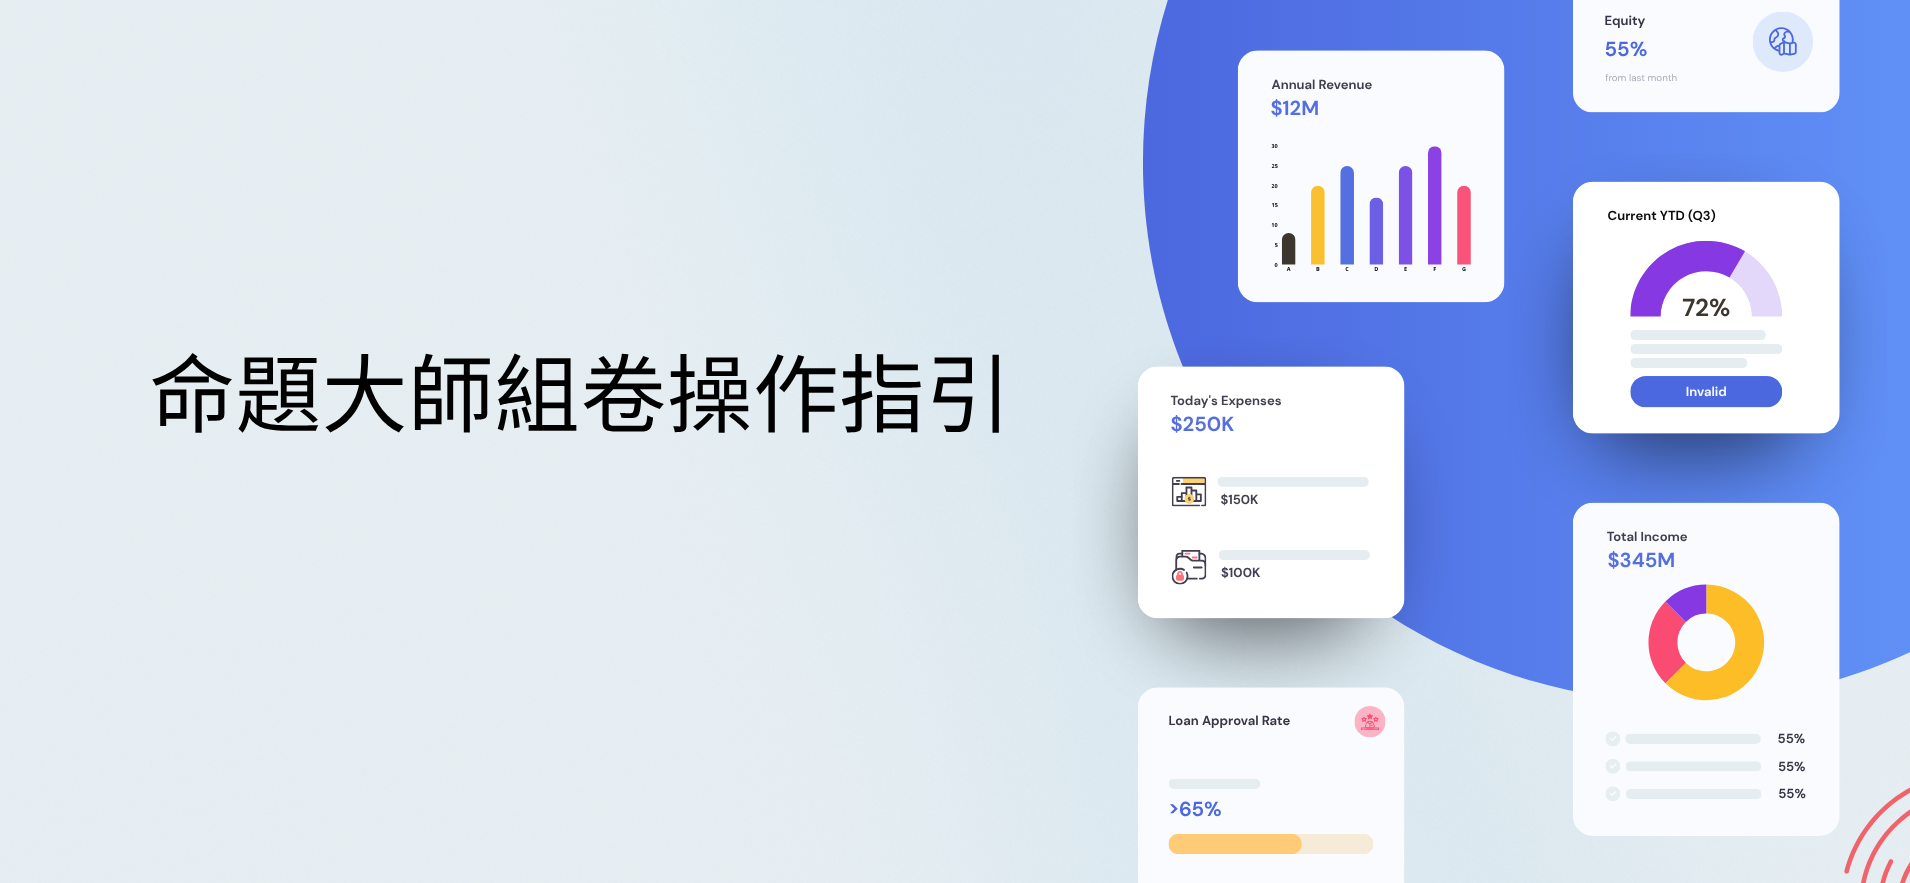
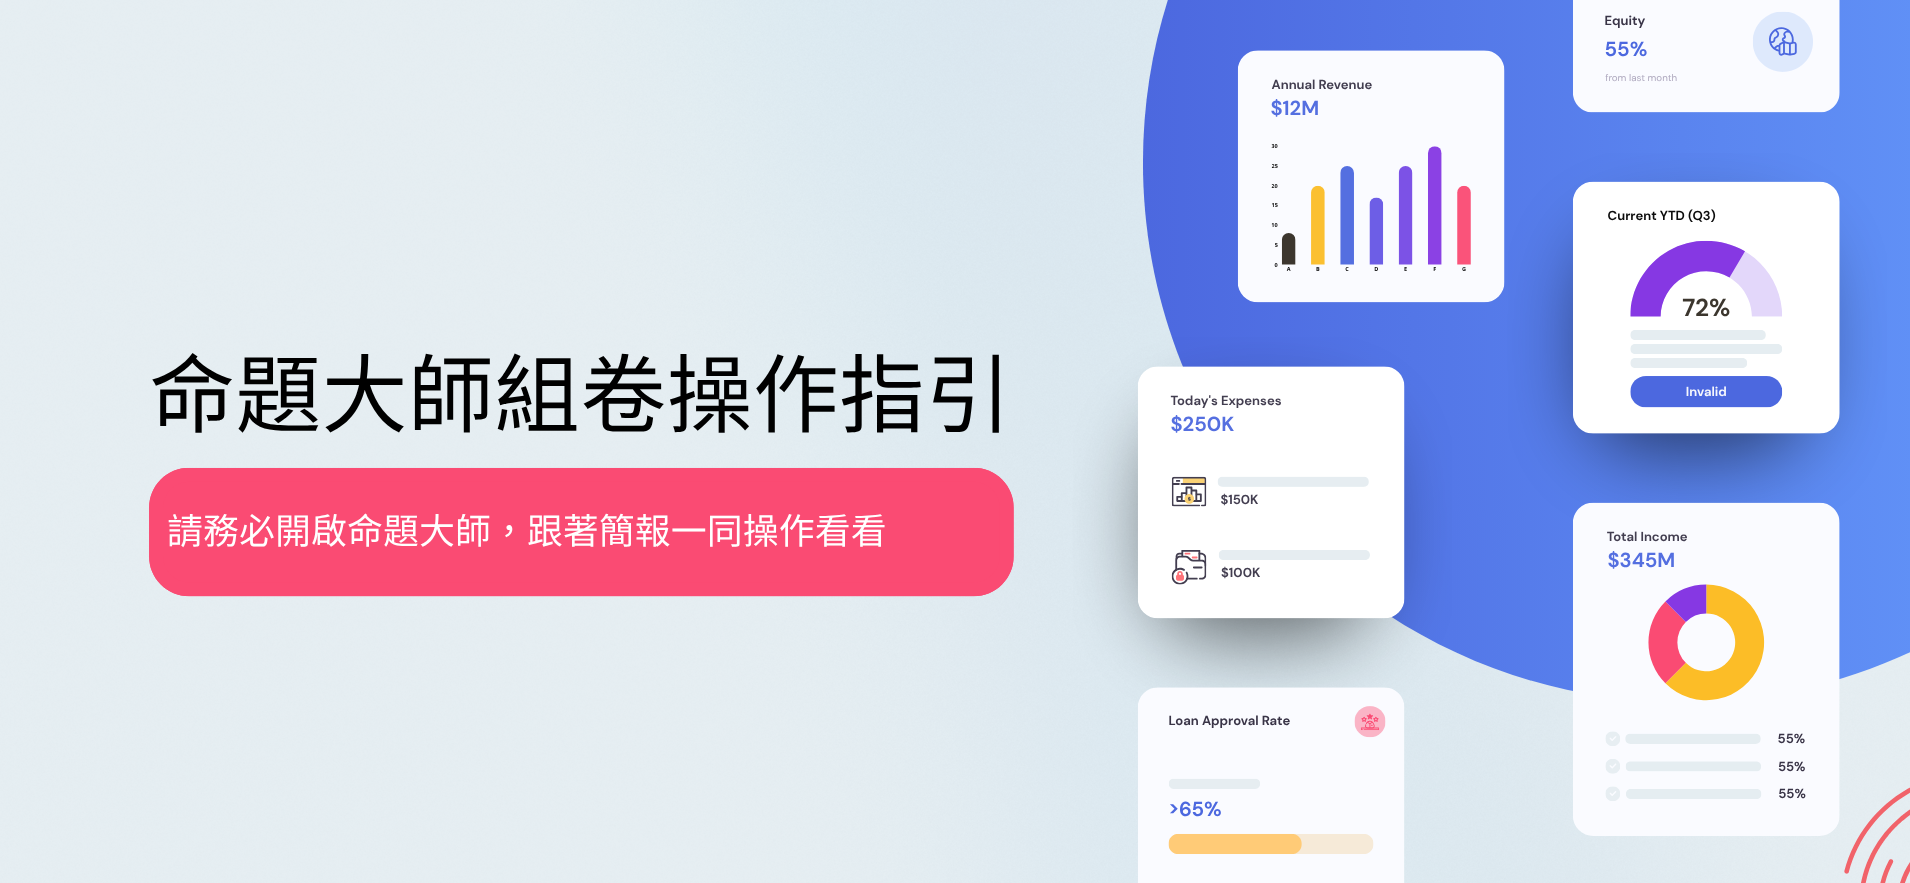
3張操作引導圖更新；命題大師改句+換順序；4個簡介加「如何進入/取得」頁

Changed region(s): [[0.0618, 0.5198, 0.556, 0.7033]]

diff --git a/js/courses.js b/js/courses.js
@@ -49,6 +49,21 @@ const COURSES = [
             '</div>' +
           '</div>',
 
+          '<h2 class="intro-title">如何進入？</h2>' +
+          '<p class="intro-lead">兩種方式都能登入會員中心：</p>' +
+          '<div class="intro-cards">' +
+            '<div class="intro-card">' +
+              '<div class="intro-ico">🔎</div>' +
+              '<h3>方式一：網站右上角</h3>' +
+              '<p>在各種需要登入的翰林網站，<b>右上角</b>就能看到「登入」按鈕。</p>' +
+            '</div>' +
+            '<div class="intro-card">' +
+              '<div class="intro-ico">↪️</div>' +
+              '<h3>方式二：進入產品時</h3>' +
+              '<p>在<b>未登入</b>的狀態下進入產品，系統會自動導向登入畫面。</p>' +
+            '</div>' +
+          '</div>',
+
           '<h2 class="intro-title">這堂課，你將學到：</h2>' +
           '<ul class="intro-list">' +
             '<li>登入方式基本分為<b>哪幾種</b></li>' +
@@ -119,6 +134,15 @@ const COURSES = [
               '<h3>內含電子書書櫃</h3>' +
               '<p>不管學校教室是用觸屏，還是老師自己用筆電、平板投播，都能透過行動大師取得及開啟電子書。</p>' +
             '</div>' +
+          '</div>',
+
+          '<h2 class="intro-title">如何進入？</h2>' +
+          '<p class="intro-lead">兩種方式都能打開行動大師：</p>' +
+          '<div class="howto">' +
+            '<div class="howto-row"><span class="howto-tag">🔎 搜尋</span>' +
+              '<span class="howto-val">翰林行動大師</span></div>' +
+            '<div class="howto-row"><span class="howto-tag">🔗 網址</span>' +
+              '<a href="https://edisc3.hle.com.tw" target="_blank" rel="noopener">https://edisc3.hle.com.tw</a></div>' +
           '</div>',
 
           '<h2 class="intro-title">這堂課，你將學到：</h2>' +
@@ -196,6 +220,24 @@ const COURSES = [
               '<div class="intro-ico">🧰</div>' +
               '<h3>它不只是一本 PDF</h3>' +
               '<p><mark class="hl">而是結合教學工具、互動功能與各種資源的完整學習環境。</mark></p>' +
+            '</div>' +
+          '</div>',
+
+          '<h2 class="intro-title">如何取得電子書？</h2>' +
+          '<div class="howto">' +
+            '<div class="howto-row"><span class="howto-tag">🔎 搜尋</span>' +
+              '<span class="howto-val">翰林行動大師</span></div>' +
+          '</div>' +
+          '<div class="intro-cards">' +
+            '<div class="intro-card">' +
+              '<div class="intro-ico">☁️</div>' +
+              '<h3>線上版</h3>' +
+              '<p>直接使用<b>線上版行動大師</b>下載，或直接使用<b>線上版電子書</b>。</p>' +
+            '</div>' +
+            '<div class="intro-card">' +
+              '<div class="intro-ico">💻</div>' +
+              '<h3>電腦版</h3>' +
+              '<p>安裝<b>電腦版行動大師</b>，下載<b>電腦版電子書</b>。</p>' +
             '</div>' +
           '</div>',
 
@@ -297,10 +339,23 @@ const COURSES = [
             '</div>' +
           '</div>',
 
+          '<h2 class="intro-title">如何進入？</h2>' +
+          '<div class="howto">' +
+            '<div class="howto-row"><span class="howto-tag">🔎 搜尋</span>' +
+              '<span class="howto-val">翰林命題大師</span></div>' +
+            '<div class="howto-row"><span class="howto-tag">🔗 網址</span>' +
+              '<a href="https://testbank.hle.com.tw" target="_blank" rel="noopener">https://testbank.hle.com.tw</a></div>' +
+          '</div>' +
+          '<div class="intro-card">' +
+            '<div class="intro-ico">🔗</div>' +
+            '<h3>也整合在行動大師裡</h3>' +
+            '<p>可於行動大師<b>右側</b>選擇「題庫」，點擊「命題大師」的<b>前往</b>按鈕。</p>' +
+          '</div>',
+
           '<h2 class="intro-title">這堂課，你將學到：</h2>' +
           '<ul class="intro-list">' +
             '<li>命題大師與雲端速測的<b>特色</b></li>' +
-            '<li><b>三種命題方式</b>，適合哪些情境</li>' +
+            '<li>命題大師<b>快速、電腦、手動命題</b>，適合什麼情境</li>' +
             '<li>如何進行<b>挑題（組卷流程）</b></li>' +
             '<li>如何<b>產生雲端速測及進行派發</b></li>' +
           '</ul>'
@@ -316,13 +371,6 @@ const COURSES = [
         pdf: "assets/命題大師/命題大師介紹.pdf"
       },
       {
-        type: "video",
-        title: "介紹影片",
-        desc: "命題大師介紹影片",
-        ai: true,
-        file: "assets/命題大師/命題大師介紹影片.mp4"
-      },
-      {
         type: "slides",
         title: "操作引導",
         desc: "命題大師操作引導手冊",
@@ -330,6 +378,13 @@ const COURSES = [
         slidesDir: "assets/命題大師/slides-guide/",
         slideCount: 26,
         pdf: "assets/命題大師/命題大師操作引導.pdf"
+      },
+      {
+        type: "video",
+        title: "介紹影片",
+        desc: "命題大師介紹影片",
+        ai: true,
+        file: "assets/命題大師/命題大師介紹影片.mp4"
       },
       {
         type: "quiz",

diff --git a/css/style.css b/css/style.css
@@ -289,6 +289,18 @@ a { color: var(--brand); text-decoration: none; }
   font-size: 12px; font-weight: 900; display: grid; place-items: center;
 }
 .intro-list b { color: var(--brand); }
+/* 「如何進入」的搜尋/網址列 */
+.howto { display: flex; flex-direction: column; gap: 10px; max-width: 720px; margin: 0 0 16px; }
+.howto-row {
+  display: flex; align-items: center; gap: 12px; flex-wrap: wrap;
+  background: #f5f7fc; border: 1px solid var(--line); border-radius: 12px; padding: 12px 16px;
+}
+.howto-tag {
+  flex: none; font-size: 13px; font-weight: 800; color: var(--brand);
+  background: #e7ecff; padding: 5px 12px; border-radius: 999px; white-space: nowrap;
+}
+.howto-row .howto-val { font-size: 16px; font-weight: 800; color: var(--ink); }
+.howto-row a { font-size: 16px; font-weight: 800; word-break: break-all; }
 /* 警告款小卡 */
 .intro-card.warn { background: #fff8ec; border-color: #f0dca5; border-top-color: var(--gold); }
 .intro-card.warn h3 { color: #8a6410; }

diff --git a/course.html b/course.html
@@ -5,7 +5,7 @@
   <meta name="viewport" content="width=device-width, initial-scale=1.0" />
   <meta name="robots" content="noindex, nofollow" />
   <title>課程 ・ 翰林國小業務新人教育訓練平台</title>
-  <link rel="stylesheet" href="css/style.css?v=59" />
+  <link rel="stylesheet" href="css/style.css?v=60" />
 </head>
 <body class="course-page">
   <header class="site-header">
@@ -48,9 +48,9 @@
 
   <script src="https://cdn.jsdelivr.net/npm/@supabase/supabase-js@2"></script>
   <script src="js/config.js?v=28"></script>
-  <script src="js/courses.js?v=56"></script>
+  <script src="js/courses.js?v=60"></script>
   <script src="js/progress.js?v=30"></script>
-  <script src="js/course.js?v=59"></script>
+  <script src="js/course.js?v=60"></script>
   <script src="js/auth.js?v=36"></script>
 </body>
 </html>

diff --git a/admin.html b/admin.html
@@ -5,7 +5,7 @@
   <meta name="viewport" content="width=device-width, initial-scale=1.0" />
   <meta name="robots" content="noindex, nofollow" />
   <title>後台 ・ 翰林國小業務新人教育訓練平台</title>
-  <link rel="stylesheet" href="css/style.css?v=59" />
+  <link rel="stylesheet" href="css/style.css?v=60" />
 </head>
 <body>
   <header class="site-header">
@@ -34,7 +34,7 @@
 
   <script src="https://cdn.jsdelivr.net/npm/@supabase/supabase-js@2"></script>
   <script src="js/config.js?v=28"></script>
-  <script src="js/courses.js?v=56"></script>
+  <script src="js/courses.js?v=60"></script>
   <script src="js/progress.js?v=30"></script>
   <script src="js/admin.js?v=40"></script>
   <script src="js/auth.js?v=36"></script>

diff --git a/index.html b/index.html
@@ -5,7 +5,7 @@
   <meta name="viewport" content="width=device-width, initial-scale=1.0" />
   <meta name="robots" content="noindex, nofollow" />
   <title>翰林國小業務新人教育訓練平台</title>
-  <link rel="stylesheet" href="css/style.css?v=59" />
+  <link rel="stylesheet" href="css/style.css?v=60" />
 </head>
 <body>
   <header class="site-header">
@@ -57,7 +57,7 @@
 
   <script src="https://cdn.jsdelivr.net/npm/@supabase/supabase-js@2"></script>
   <script src="js/config.js?v=28"></script>
-  <script src="js/courses.js?v=56"></script>
+  <script src="js/courses.js?v=60"></script>
   <script src="js/progress.js?v=30"></script>
   <script src="js/home.js?v=59"></script>
   <script src="js/auth.js?v=36"></script>

diff --git a/js/course.js b/js/course.js
@@ -22,7 +22,7 @@ function initCourse() {
   var seenLast = false;     // 這一步「曾經翻到過最後一頁」→ 之後翻回去也保持解鎖
   var keyHandler = null;    // 鍵盤翻頁監聽（避免重複疊加）
   var confettiShown = false;// 彩帶只放一次
-  var SLIDE_V = "?v=7";     // 簡報圖片版本；重新輸出投影片後把數字加 1，強制瀏覽器抓新圖
+  var SLIDE_V = "?v=8";     // 簡報圖片版本；重新輸出投影片後把數字加 1，強制瀏覽器抓新圖
 
   // AI 生成教材提示（步驟設 ai:true 時顯示；要改文字改這裡即可）
   var AI_NOTICE =